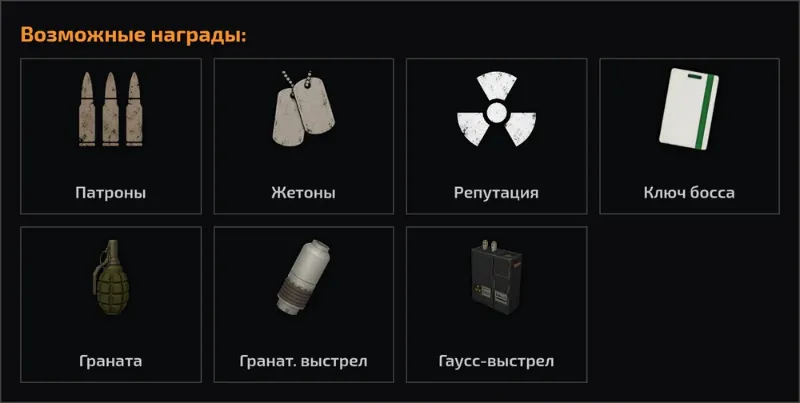
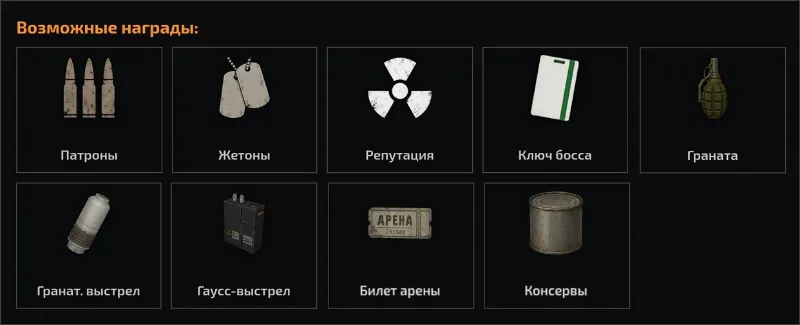
Добавить новые награды за взлом ПДА
Указать билет арены и консервы среди возможных наград и обновить изображения.

diff --git a/guides/vzlom-pda/index.md b/guides/vzlom-pda/index.md
@@ -59,11 +59,13 @@ description: Как устроена мини-игра «Взлом ПДА»: п
 
 За успешный взлом выдаётся одна награда. Возможные варианты:
 
-![Возможные награды: патроны, жетоны, репутация, ключ босса, граната, гранатомётный выстрел, гаусс-выстрел](rewards.webp)
+![Возможные награды: патроны, жетоны, репутация, ключ босса, граната, гранатомётный выстрел, гаусс-выстрел, билет арены, консервы](rewards.webp)
 
 - патроны, жетоны или репутация;
 - **Ключ босса** - зелёный, нужен для боссов (подробнее на вкладке [«Боссы»](/info-bosses));
-- удары по боссу: **граната**, **гранатомётный выстрел** и **гаусс-выстрел**.
+- удары по боссу: **граната**, **гранатомётный выстрел** и **гаусс-выстрел**;
+- **Билет арены** - бой на Арене сверх 10 бесплатных в день;
+- **Консервы** - нужны для прокачки характеристик.
 
 Чем ценнее ПДА, тем лучше возможная награда. С 50 уровня взлома награда может удвоиться.
 
